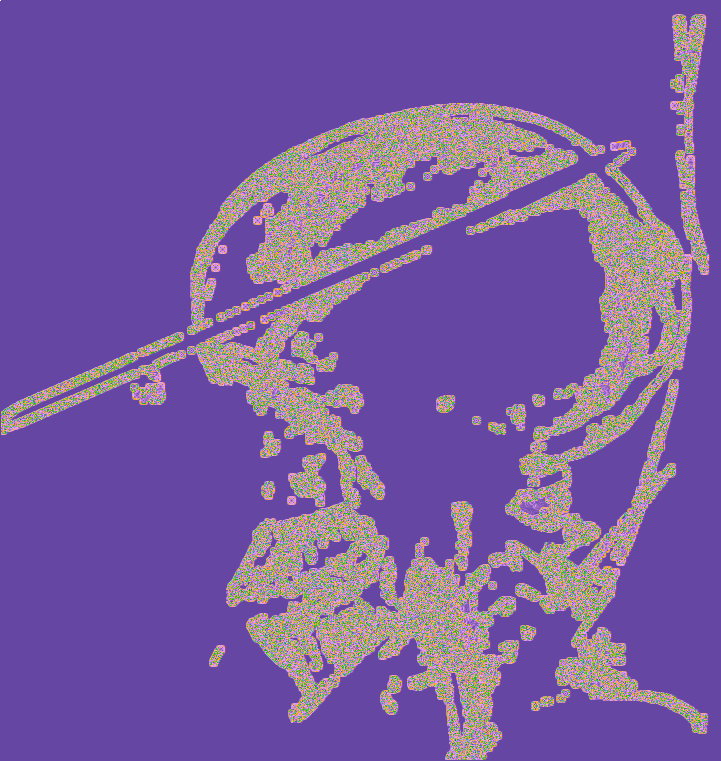
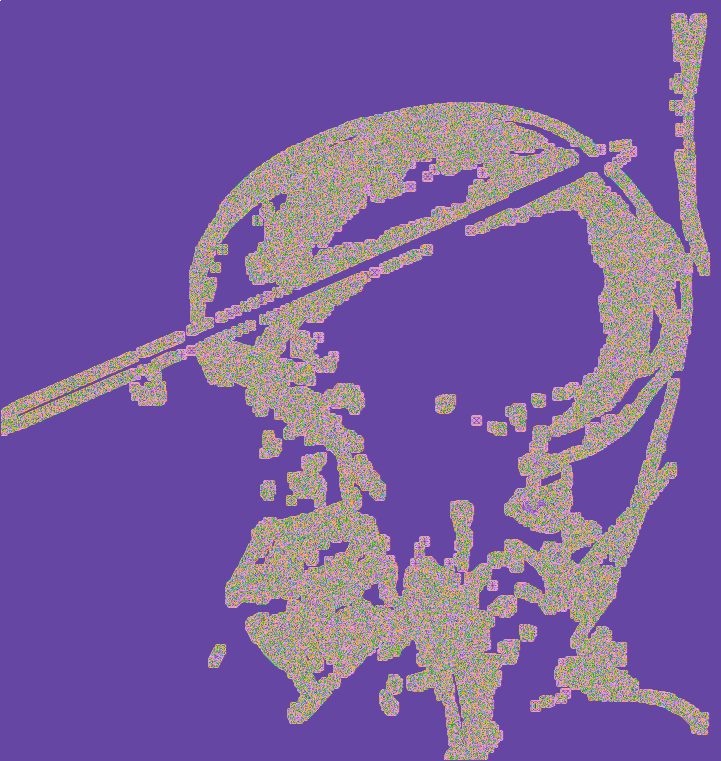
SGSSS

Changed region(s): [[0.0, 0.0, 1.0, 1.0], [0.5798, 0.5138, 0.6408, 0.544], [0.2746, 0.8463, 0.3356, 0.8765]]

diff --git a/1course.c b/1course.c
@@ -169,8 +169,8 @@ int main() {
     fSobel(image, image_0, w, h);
     fGauss(image_0, image_2, w, h);
     fSobel(image_2, image_4, w, h);
-    fSobel(image_4, image_1, w, h);
-    //fSobel(image_5, image_1, w, h);
+    fSobel(image_4, image_5, w, h);
+    fSobel(image_5, image_1, w, h);
     colouring(image_1, data, w, h, n);
   /*  int* comps = (int*)malloc((n*w*h)*sizeof(int));
     for (i=0; i < w*h; i++) comps[i] = 0;
